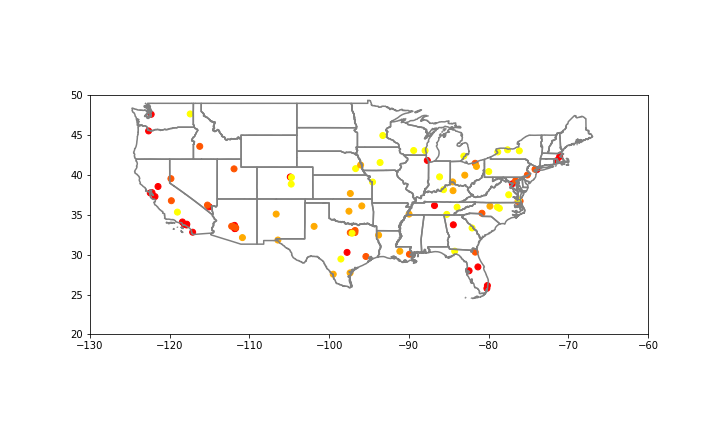
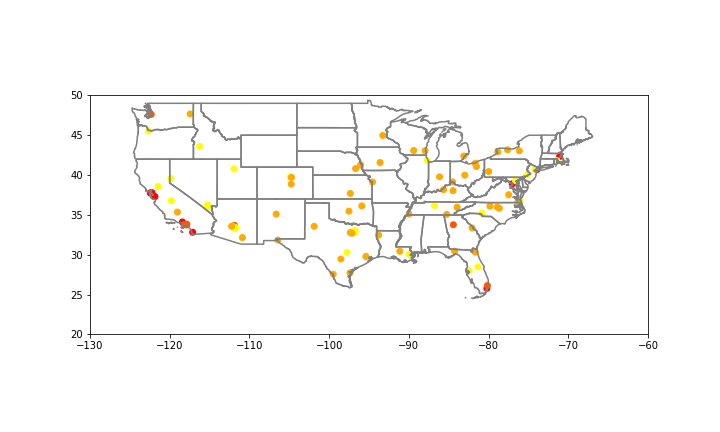
Presentation Finalized

diff --git a/affordability.py b/affordability.py
@@ -56,10 +56,14 @@ ax.set_xlim(-130,-60)
 ax.set_ylim(20,50)
 us_boundary_map = states.boundary.plot(figsize = (10,10), color="Gray", ax=ax)
 data_gdf.plot('Category', ax=us_boundary_map, cmap='autumn')
-
 fig.savefig("City-Rental-Affordability-Map.png")
 
-
+fig2, ax = plt.subplots(figsize = (10,6))
+ax.set_xlim(-130,-60)
+ax.set_ylim(20,50)
+us_boundary_map = states.boundary.plot(figsize = (10,10), color="Gray", ax=ax)
+data_gdf.plot('1B Y/Y%', ax=us_boundary_map, cmap='autumn')
+fig2.savefig("City-Rental-Growth-Map.png")
 
 
 
